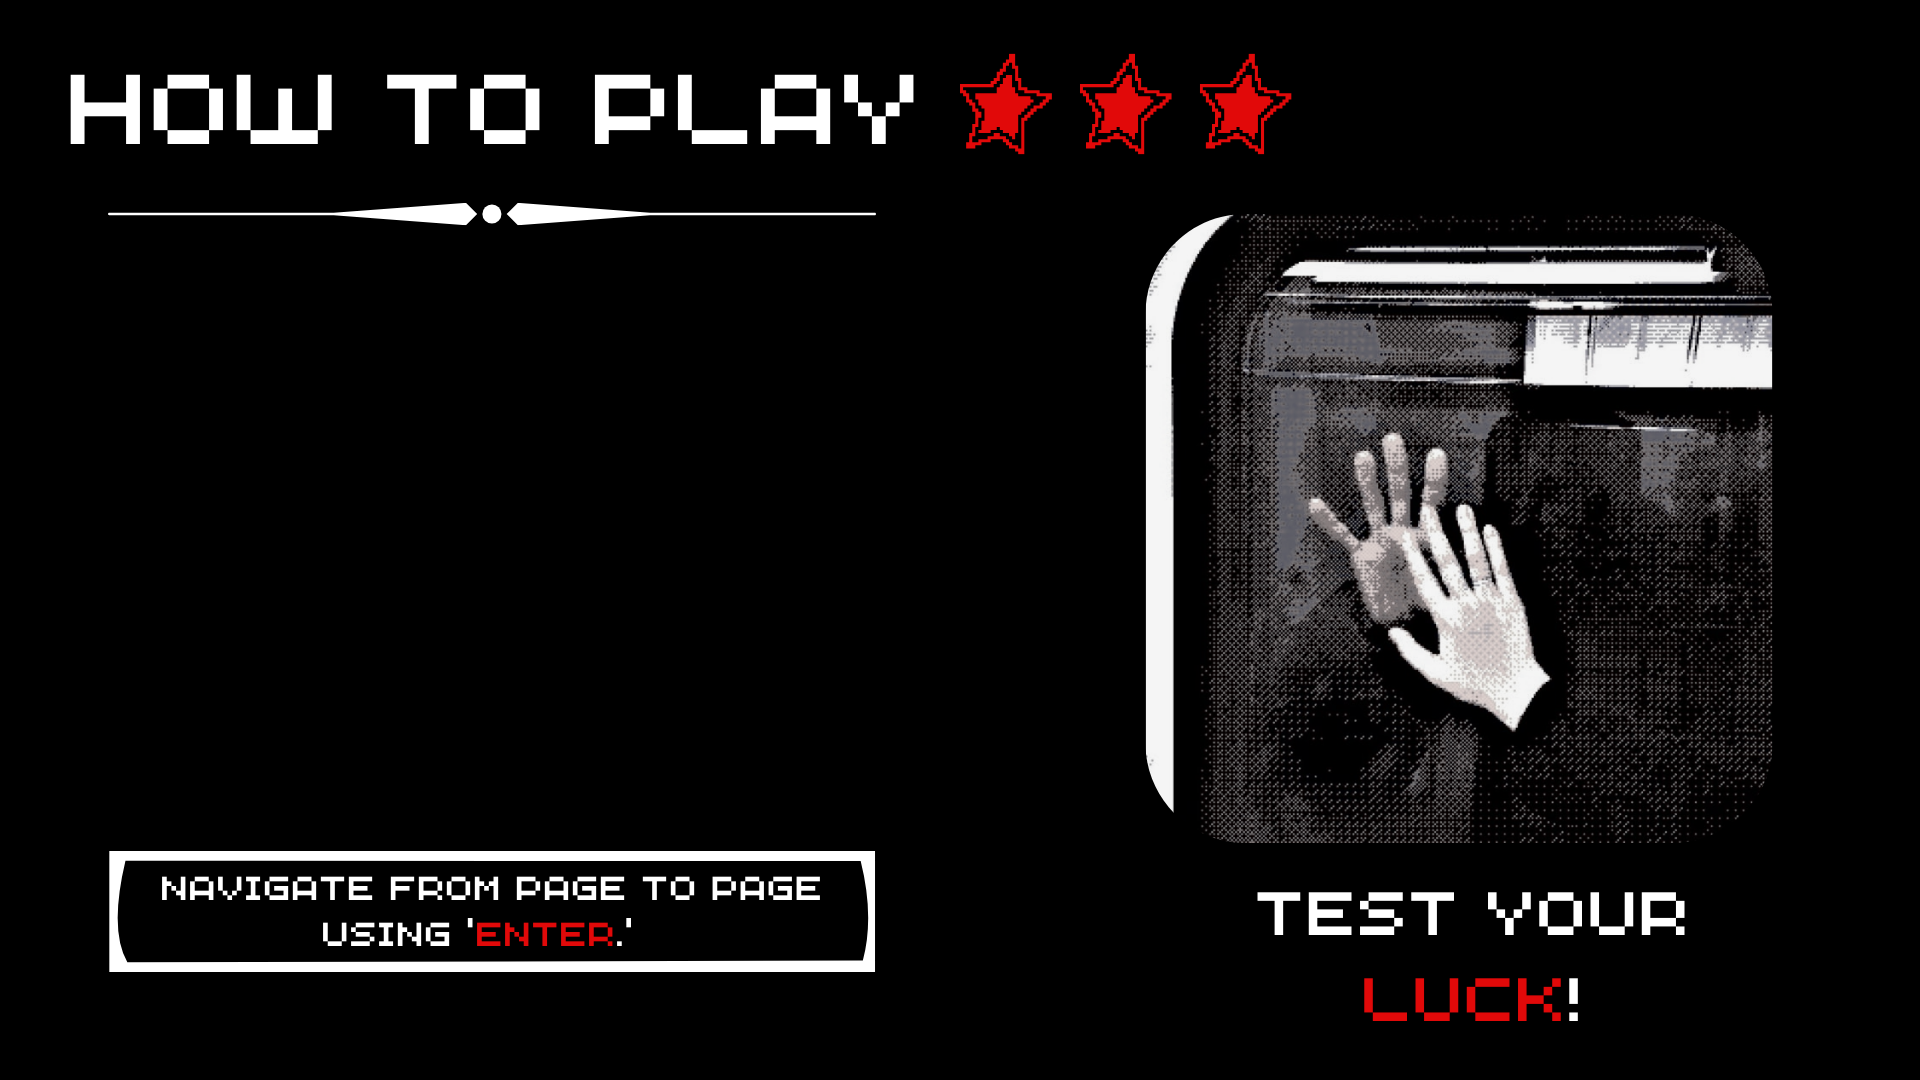
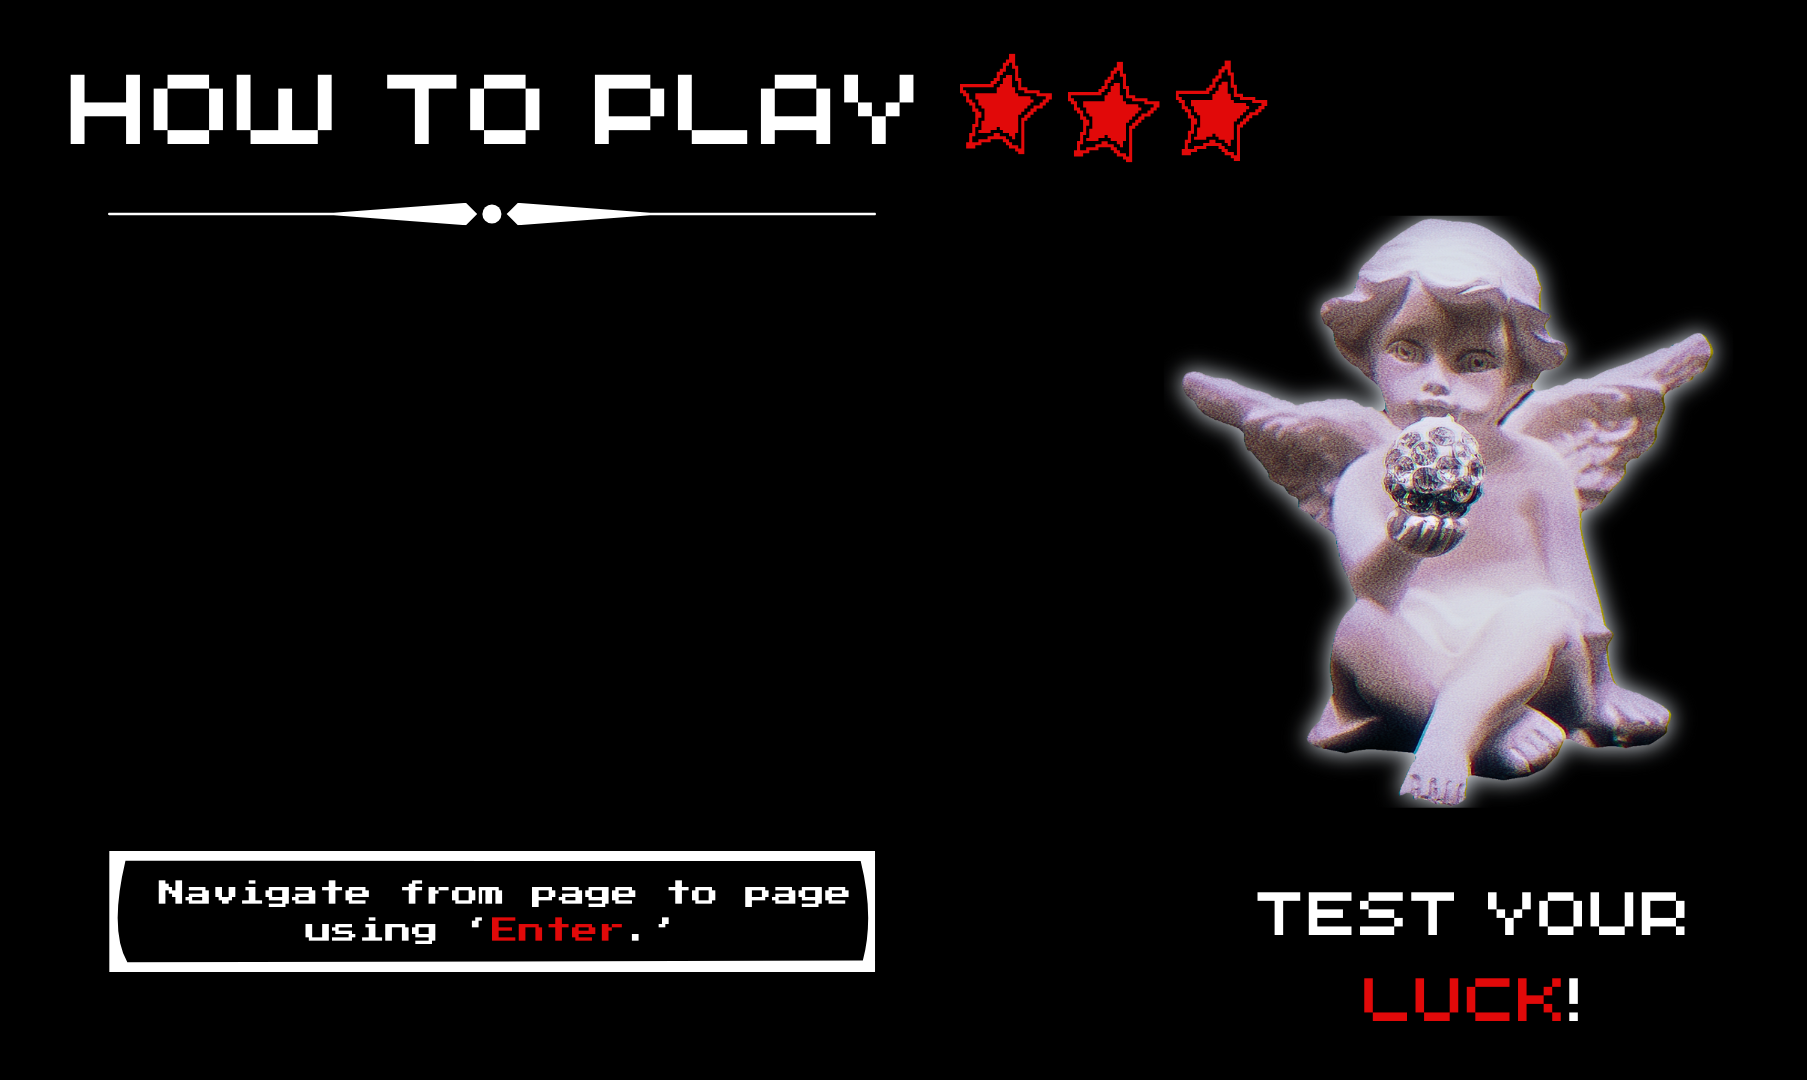
prjwrk

diff --git a/Project/Scene_Rules.java b/Project/Scene_Rules.java
@@ -25,7 +25,7 @@ public class Scene_Rules implements Scene
     {
         this.p = p;
     //    RulesboardImage = p.loadImage("K.png");
-        cardImage = p.loadImage("michelangelo.png");  
+        cardImage = p.loadImage("angel.png");  
         customFont = p.createFont("slkscr.ttf", 45); 
     //    Avatar = p.loadImage("bunny.png");
         normal=p.loadImage("arcade2.png");
@@ -69,7 +69,7 @@ public class Scene_Rules implements Scene
         float cardX = p.width / 10;
         float cardY = (p.height - cardHeight) / 2;
     //    p.image(cardImage, p.width/2-(cardImage.width/2), p.height-cardImage.height-180, cardImage.width, cardImage.height); 
-        p.image(cardImage, p.width/2-(cardImage.width/2)+80, p.height-500, cardImage.width/1.4f, cardImage.height/1.4f); 
+        p.image(cardImage, p.width/2-(cardImage.width/2), p.height-500, cardImage.width/1.2f, cardImage.height/1.2f); 
 
         p.textFont(customFont);
         p.textAlign(PApplet.CENTER); 

diff --git a/Project/Game.java b/Project/Game.java
@@ -29,7 +29,7 @@ public class Game extends PApplet {
         music.loop();
 
         playerImages = new ArrayList<>();
-        playerImages.add(loadImage("eye2.png")); 
+        playerImages.add(loadImage("spider.png")); 
         playerImages.add(loadImage("chess2.png")); 
         playerImages.add(loadImage("cat.png")); 
 
@@ -41,8 +41,6 @@ public class Game extends PApplet {
         scenes.add(new Scene_Rules(this));
         scenes.add(new Scene_Play(this, players, this));
         scenes.add(new Scene_Play2(this, players, this));
-      //  scenes.add(new Scene_Elimination(this, players, this));
-    //  scenes.add(new Scene_Elimination2(this, players, this));
         //  scenes.add(new Scene_Ending(this, players, this));
     }
 

diff --git a/unit12/rectangleTest.java b/unit12/rectangleTest.java
@@ -5,7 +5,7 @@ public class rectangleTest {
             { new Rectangle("Rect3", 2.0, 8.0), new Rectangle("Rect4", 3.0, 10.0) }
         };
 
-        System.out.println("Average Perimeter: " + averagePerimeter(rectangles));
-        System.out.println("Rectangle with Largest Area: " + largestArea(rectangles));
+        System.out.println("Average Perimeter: " + Rectangle.averagePerimeter(rectangles));
+        System.out.println("Rectangle with Largest Area: " + Rectangle.largestArea(rectangles).getName());
     }
 }

diff --git a/Project/Scene_Play2.java b/Project/Scene_Play2.java
@@ -33,7 +33,6 @@ String text2=". . .";
       round1Gif.loop();
        round2Gif=new Gif(p,"gum.gif");
         round2Gif.loop();
-        //roundImage=p.loadImage("girl.png");
     }
 
     public void resetFadeEffect() {
@@ -182,6 +181,7 @@ String text2=". . .";
         }
     }
     }
+    
     public void endRound() {
   for (Player player : players) {
             player.setHasLostPoint(false);
